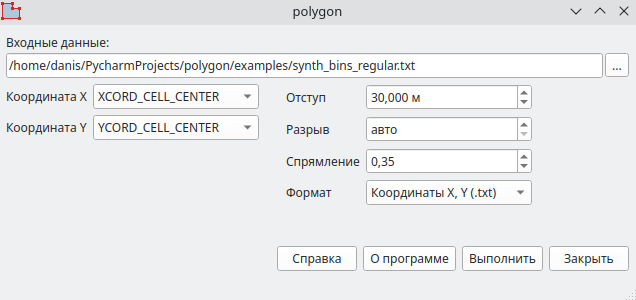
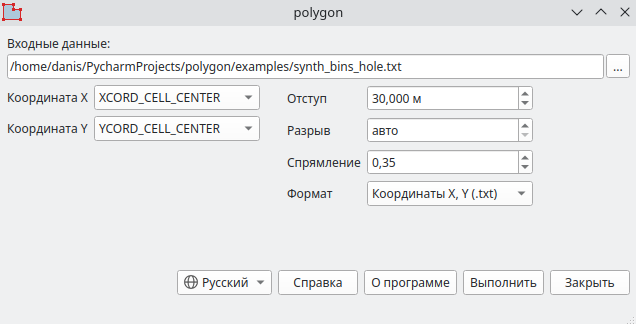
polygon: картинки английской версии и окно со списком языка
На английской странице окно и результаты теперь с английскими надписями.

diff --git a/docs/polygon.en.md b/docs/polygon.en.md
@@ -6,7 +6,7 @@ meters. Without a margin it is an outline through the outermost points, with a
 margin - a buffer around the area. The polygon then goes to processing as the
 survey boundary.
 
-![polygon window](img/polygon.png)
+![polygon window](img/polygon_en.png)
 
 ## Download
 
@@ -44,7 +44,7 @@ themselves, so it needs neither line numbers nor the survey azimuth. The edge of
 the area is traced bin by bin, and the file gets the coordinates of the outermost
 bins themselves; a ragged edge is traced as it is.
 
-![Ragged edge: synth_bins_regular.txt, 30 m margin](img/polygon_regular.png)
+![Ragged edge: synth_bins_regular.txt, 30 m margin](img/polygon_regular_en.png)
 
 **Points not on a grid** - SPS, 2D lines, surveys with different spacing. The
 points are joined into triangles, and triangles with a side longer than the
@@ -69,13 +69,13 @@ coordinates a `<name>_polygon.txt` appears next to the input file, and with
 several areas - a file per polygon: `<name>_polygon_1.txt`, `_2.txt` and so on.
 For Surfer - a single `<name>_polygon.bln` with all polygons.
 
-![Two areas: synth_bins_two_areas.txt, two polygons](img/polygon_two_areas.png)
+![Two areas: synth_bins_two_areas.txt, two polygons](img/polygon_two_areas_en.png)
 
 When done, the program reports the area of every polygon and shows them in a
 picture together with the points. Holes inside areas do not go into the polygons -
 their number is reported too.
 
-![Holes inside an area: synth_bins_hole.txt, the polygon follows the outer edge](img/polygon_hole.png)
+![Holes inside an area: synth_bins_hole.txt, the polygon follows the outer edge](img/polygon_hole_en.png)
 
 ## Version history
 
